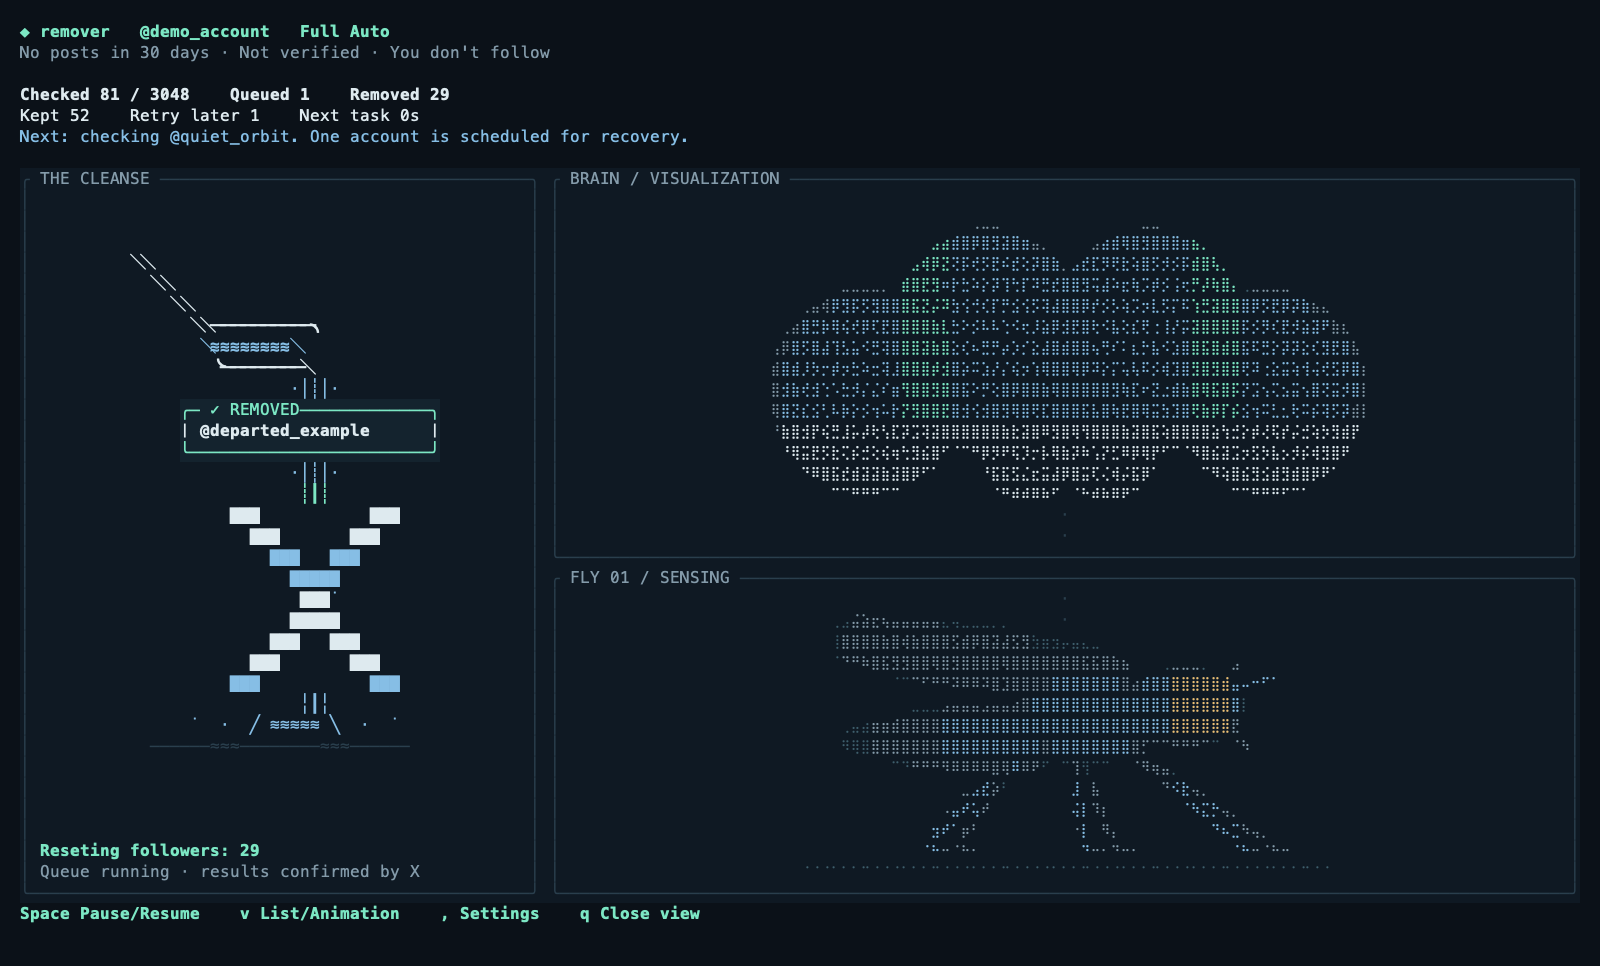
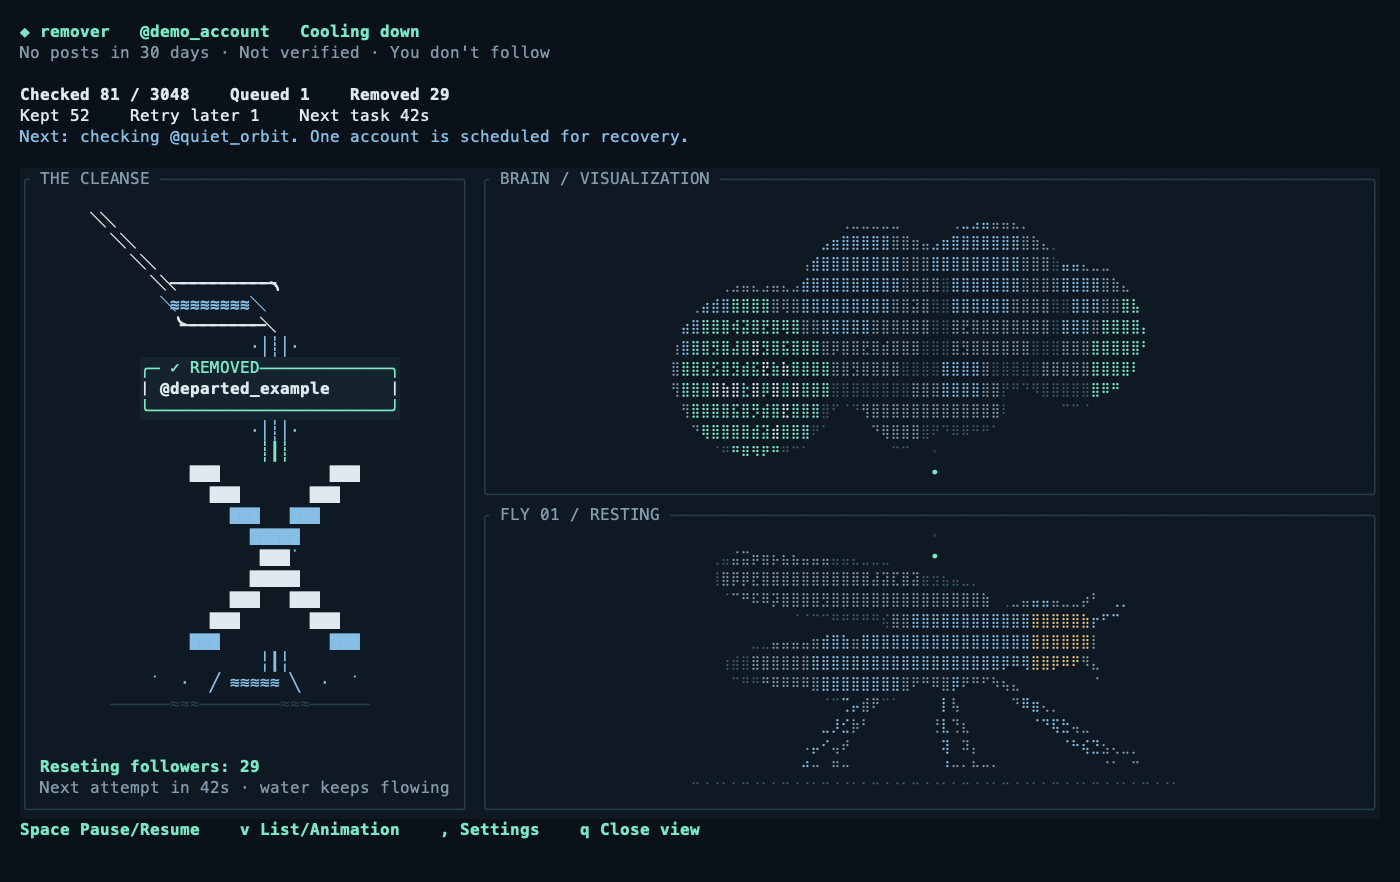
Render brain in 3D with clustered activation

diff --git a/src/insect.rs b/src/insect.rs
@@ -69,37 +69,71 @@ fn ellipsoid(
         });
     }
 }
-fn brain_points() -> &'static [Point] {
-    static POINTS: OnceLock<Vec<Point>> = OnceLock::new();
+struct BrainPoint {
+    position: [f32; 3],
+    normal: [f32; 3],
+    clusters: [f32; 8],
+}
+// Original illustrative regions, not a measured connectome.
+const CLUSTERS: [[f32; 3]; 8] = [
+    [-0.94, 0.04, 0.20],
+    [-0.53, -0.20, 0.28],
+    [-0.23, -0.29, 0.31],
+    [-0.17, 0.25, 0.17],
+    [0.20, 0.23, 0.19],
+    [0.28, -0.29, 0.30],
+    [0.59, -0.13, 0.26],
+    [0.97, 0.09, 0.17],
+];
+fn brain_points() -> &'static [BrainPoint] {
+    static POINTS: OnceLock<Vec<BrainPoint>> = OnceLock::new();
     POINTS.get_or_init(|| {
-        let mut p = Vec::with_capacity(6800);
+        let mut lobes = Vec::new();
         for side in [-1.0, 1.0] {
-            ellipsoid(
-                &mut p,
-                [side * 0.83, 0.08, 0.0],
-                [0.39, 0.39, 0.32],
-                1400,
-                0,
-                side * 0.15,
-            );
-            ellipsoid(
-                &mut p,
-                [side * 0.32, -0.12, 0.05],
-                [0.40, 0.43, 0.35],
-                1500,
-                1,
-                side * 0.23,
-            );
-            ellipsoid(
-                &mut p,
-                [side * 0.16, 0.27, 0.0],
-                [0.20, 0.23, 0.22],
-                400,
-                2,
-                0.0,
-            );
+            lobes.extend([
+                ([side * 0.87, 0.05, 0.0], [0.37, 0.35, 0.34], 4000),
+                ([side * 0.32, -0.14, 0.03], [0.36, 0.40, 0.42], 5000),
+                ([side * 0.17, 0.25, 0.02], [0.19, 0.22, 0.25], 1800),
+            ]);
         }
-        p
+        let mut points = Vec::with_capacity(21600);
+        for &(center, radii, count) in &lobes {
+            let mut shell = Vec::with_capacity(count);
+            ellipsoid(&mut shell, center, radii, count, 0, 0.0);
+            for p in shell {
+                let position = [p.x, p.y, p.z];
+                // Hide surfaces inside another lobe, leaving a continuous outer shell.
+                if lobes.iter().any(|&(other, r, _)| {
+                    other != center
+                        && (0..3)
+                            .map(|i| ((position[i] - other[i]) / r[i]).powi(2))
+                            .sum::<f32>()
+                            < 0.98
+                }) {
+                    continue;
+                }
+                let normal: [f32; 3] =
+                    std::array::from_fn(|i| (position[i] - center[i]) / radii[i].powi(2));
+                let length = normal.iter().map(|v| v * v).sum::<f32>().sqrt();
+                let normal = normal.map(|v| v / length);
+                // Fine surface relief catches the light as the brain turns.
+                let relief =
+                    (p.x * 35.0 + p.z * 17.0).sin() * (p.y * 29.0 - p.z * 13.0).sin() * 0.012;
+                let position = std::array::from_fn(|i| position[i] + normal[i] * relief);
+                let clusters = CLUSTERS.map(|center| {
+                    let distance = (0..3)
+                        .map(|i| (position[i] - center[i]).powi(2))
+                        .sum::<f32>();
+                    (1.0 - distance / 0.115).max(0.0).powi(2)
+                });
+                points.push(BrainPoint {
+                    position,
+                    normal,
+                    clusters,
+                });
+            }
+        }
+        points
     })
 }
 fn fly_points() -> &'static [Point] {
@@ -152,6 +186,7 @@ struct Raster {
     area: Rect,
     dots: Vec<u8>,
     light: Vec<u8>,
+    depth: Vec<f32>,
     scale: f32,
     ascii: bool,
 }
@@ -161,13 +196,17 @@ impl Raster {
         Self {
             area,
             dots: vec![0; area.width as usize * area.height as usize],
-            light: vec![0; area.width as usize * area.height as usize],
+            light: vec![0; area.width as usize * area.height as usize * 8],
+            depth: vec![f32::NEG_INFINITY; area.width as usize * area.height as usize * 8],
             scale: (f32::from(area.width) * 2.0 / aspect_width)
                 .min(f32::from(area.height) * 4.0 / aspect_height),
             ascii,
         }
     }
     fn dot(&mut self, x: f32, y: f32, intensity: u8) {
+        self.depth_dot(x, y, f32::INFINITY, intensity);
+    }
+    fn depth_dot(&mut self, x: f32, y: f32, depth: f32, intensity: u8) {
         let x = (f32::from(self.area.width) + x * self.scale).round() as i32;
         let y = (f32::from(self.area.height) * 2.0 + y * self.scale).round() as i32;
         if x < 0
@@ -179,8 +218,18 @@ impl Raster {
         }
         let index = (y as usize / 4) * self.area.width as usize + x as usize / 2;
         let bits = [[0, 3], [1, 4], [2, 5], [6, 7]];
-        self.dots[index] |= 1 << bits[y as usize % 4][x as usize % 2];
-        self.light[index] = self.light[index].max(intensity);
+        let bit = bits[y as usize % 4][x as usize % 2];
+        let pixel = index * 8 + bit;
+        if depth < self.depth[pixel] {
+            return;
+        }
+        self.dots[index] |= 1 << bit;
+        self.light[pixel] = if depth == self.depth[pixel] {
+            self.light[pixel].max(intensity)
+        } else {
+            intensity
+        };
+        self.depth[pixel] = depth;
     }
     fn line(&mut self, from: [f32; 2], to: [f32; 2], intensity: u8) {
         for i in 0..48 {
@@ -205,7 +254,7 @@ impl Raster {
             let color = if still {
                 MUTED
             } else {
-                match self.light[i] {
+                match self.light[i * 8..i * 8 + 8].iter().max().unwrap() {
                     0 => Color::Rgb(62, 94, 108),
                     1 => MUTED,
                     2 => ICE,
@@ -223,33 +272,93 @@ impl Raster {
         }
     }
 }
-fn brain(frame: &mut Frame, area: Rect, time: f32, motion: Motion, burst: f32, ascii: bool) {
-    let mut raster = Raster::new(area, 2.65, 1.4, ascii);
+struct BrainCamera {
+    yaw: (f32, f32),
+    pitch: (f32, f32),
+}
+impl BrainCamera {
+    fn new(time: f32) -> Self {
+        Self {
+            yaw: (0.38 + (time * 0.19).sin() * 0.46).sin_cos(),
+            pitch: (-0.22 + (time * 0.13).sin() * 0.10).sin_cos(),
+        }
+    }
+    fn rotate(&self, [x, y, z]: [f32; 3]) -> [f32; 3] {
+        let (sy, cy) = self.yaw;
+        let (sx, cx) = self.pitch;
+        let x1 = x * cy + z * sy;
+        let z1 = z * cy - x * sy;
+        [x1, y * cx - z1 * sx, y * sx + z1 * cx]
+    }
+    fn project(&self, point: [f32; 3]) -> [f32; 3] {
+        let [x, y, z] = self.rotate(point);
+        let perspective = 3.8 / (3.8 - z);
+        [x * perspective, y * perspective, z]
+    }
+}
+fn cluster_activation(time: f32, motion: Motion, burst: f32) -> [f32; 8] {
     let speed = match motion {
-        Motion::Rest => 0.4,
-        Motion::Collect => 1.2,
-        _ => 2.0,
+        Motion::Rest => 0.45,
+        Motion::Collect => 0.8,
+        Motion::Remove => 1.3,
+        _ => 1.0,
     };
-    let wave = (time * speed).rem_euclid(2.8) - 1.4;
-    for p in brain_points() {
-        let x = p.x + p.z * (time * 0.2).sin() * 0.08;
-        let pulse = if motion == Motion::Inspect {
-            (p.x.abs() - wave.abs()).abs()
+    std::array::from_fn(|i| {
+        let phase = (time * speed - i as f32 * 0.48).rem_euclid(4.8);
+        let pulse = (1.0 - ((phase - 0.65) / 0.65).abs()).max(0.0);
+        let receipt = if burst > 0.0 {
+            (1.0 - (((1.0 - burst) * 2.0 - i as f32 * 0.16) / 0.5).abs()).max(0.0)
         } else {
-            (p.x - wave).abs()
+            0.0
         };
-        let intensity = if burst > 0.0 && (p.y - (0.8 - burst * 1.5)).abs() < 0.12 {
+        pulse.max(receipt)
+    })
+}
+fn brain(frame: &mut Frame, area: Rect, time: f32, motion: Motion, burst: f32, ascii: bool) {
+    let mut raster = Raster::new(area, 2.7, 1.4, ascii);
+    let camera = BrainCamera::new(time);
+    let activation = cluster_activation(time, motion, burst);
+    for (i, p) in brain_points().iter().enumerate() {
+        let normal = camera.rotate(p.normal);
+        if normal[2] < -0.1 {
+            continue;
+        }
+        let [x, y, z] = camera.project(p.position);
+        let energy = p
+            .clusters
+            .iter()
+            .zip(activation)
+            .map(|(weight, pulse)| weight * pulse)
+            .fold(0.0_f32, f32::max);
+        let illumination = (-normal[0] * 0.35 - normal[1] * 0.45 + normal[2] * 0.75).max(0.0);
+        // Local, discrete glints inside each active cluster; no full-width scan band.
+        let spark = (i as u64 * 17 + (time * 12.0) as u64).is_multiple_of(11);
+        let intensity = if energy > 0.30 && spark {
             4
-        } else if pulse < 0.08 {
+        } else if energy > 0.08 {
             3
-        } else if p.z > 0.15 {
+        } else if illumination > 0.78 {
             2
-        } else if p.z > 0.0 {
+        } else if illumination > 0.36 {
             1
         } else {
             0
         };
-        raster.dot(x, p.y, intensity);
+        raster.depth_dot(x, y, z, intensity);
+    }
+    // Short surface pathways connect the illustrative regions in firing order.
+    for (i, pair) in CLUSTERS.windows(2).enumerate() {
+        for step in 0..32 {
+            let t = step as f32 / 31.0;
+            let energy = activation[i] * (1.0 - t) + activation[i + 1] * t;
+            if energy > 0.12 {
+                let mut point =
+                    std::array::from_fn(|axis| pair[0][axis] * (1.0 - t) + pair[1][axis] * t);
+                point[2] += (t * std::f32::consts::PI).sin() * 0.10;
+                let [x, y, z] = camera.project(point);
+                raster.depth_dot(x, y, z, if energy > 0.5 { 3 } else { 1 });
+            }
+        }
     }
     raster.paint(frame, motion == Motion::Still);
 }
@@ -404,6 +513,33 @@ pub fn render(
 mod tests {
     use super::*;
     use ratatui::{Terminal, backend::TestBackend};
+    #[test]
+    fn nearer_surface_hides_activation_on_the_far_surface() {
+        for far_first in [true, false] {
+            let mut raster = Raster::new(Rect::new(0, 0, 20, 10), 2.8, 1.65, false);
+            let samples = if far_first {
+                [(0.1, 4), (0.4, 1)]
+            } else {
+                [(0.4, 1), (0.1, 4)]
+            };
+            for (z, light) in samples {
+                raster.depth_dot(0.0, 0.0, z, light);
+            }
+            assert_eq!(raster.light.iter().copied().max(), Some(1));
+        }
+    }
+    #[test]
+    fn activation_stays_local_and_projection_changes_depth() {
+        for step in 0..100 {
+            let activation = cluster_activation(step as f32 * 0.1, Motion::Inspect, 0.0);
+            assert!(activation.iter().filter(|&&v| v > 0.0).count() <= 3);
+        }
+        let point = [0.9, 0.1, 0.2];
+        let first = BrainCamera::new(0.0).project(point);
+        let later = BrainCamera::new(6.0).project(point);
+        assert!((first[0] - later[0]).abs() > 0.1);
+        assert!((first[2] - later[2]).abs() > 0.1);
+    }
     fn capture(motion: Motion, clock: u64, age: Option<u64>) -> ratatui::buffer::Buffer {
         let mut terminal = Terminal::new(TestBackend::new(90, 32)).unwrap();
         terminal

diff --git a/README.md b/README.md
@@ -167,7 +167,7 @@ remover --advanced
 
 Use the full inventory, evidence panel, manual selection, and custom rules. Press **?** for controls. Before a background job starts, **Tab** switches simple and advanced views.
 
-During a job, **v** switches the list and animation. The ladle pours over X beside a dot-rendered brain and fruit fly. The fly walks during collection, senses during checks, and rests during cooldowns. A confirmed removal triggers a brain pulse, wing movement, and a falling account tag. Pause stops motion.
+During a job, **v** switches the list and animation. The ladle pours over X beside a rotating 3D brain and a detailed fruit fly. Local activation clusters pulse across shaded brain regions. The fly walks during collection, senses during checks, and rests during cooldowns. A confirmed removal triggers a brain pulse, wing movement, and a falling account tag. Pause stops motion.
 
 The brain and fly are a visualization of queue activity, not a biological simulation or a bot classifier. The full scene fits terminals at least 112 columns wide with enough height; smaller windows retain the ladle view. Use `--no-animation` for a still view, or `REMOVER_ASCII=1 remover` if your terminal does not display Braille dots.
 

diff --git a/docs/RELEASE_NOTES.md b/docs/RELEASE_NOTES.md
@@ -1,5 +1,5 @@
-# Remover 0.4.4
+# Remover 0.4.5
 
-Increases the fly artwork from 2,800 to 15,500 sampled points. A wider silhouette, segmented abdomen, compound-eye texture, wing veins, leg bristles, and shaded visible surfaces improve detail at normal terminal sizes.
+The brain now renders in 3D, with perspective, slow rotation, shaded lobes, and depth occlusion. Eight local activation clusters pulse through connected regions with individual point flashes. Work states and confirmed removals change the visual rhythm. Pausing freezes the animation.
 
-This release changes the fly illustration only. The brain remains an explicitly labeled visualization, not live neural simulation. Cleanup behavior and the Chrome driver are unchanged.
+This is an illustrative activity visualization, not measured neural data or a biological simulation. The detailed fly and pouring animation remain. Cleanup behavior and the Chrome driver are unchanged.
